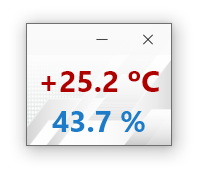
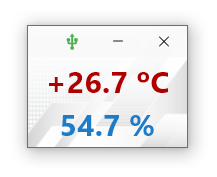
Added extension

diff --git a/lib/widget/content_body.dart b/lib/widget/content_body.dart
@@ -5,6 +5,7 @@ import 'package:flutter_riverpod/flutter_riverpod.dart';
 
 import '../main.dart';
 import '../provider/provider.dart';
+import '../settings/extension.dart';
 import '../settings/my_style.dart' as my_style;
 
 class ContentBody extends ConsumerStatefulWidget {
@@ -15,20 +16,6 @@ class ContentBody extends ConsumerStatefulWidget {
 }
 
 class _ContentBodyState extends ConsumerState<ContentBody> {
-  String getTemperatureSting(double? data) {
-    if (data == null) {
-      return '0';
-    }
-    return (data > 0) ? '+${data.toStringAsFixed(1)} \u00BAC' : '${data.toStringAsFixed(1)} \u00BAC';
-  }
-
-  String getHumiditySting(double? data) {
-    if (data == null) {
-      return '0';
-    }
-    return '${data.toStringAsFixed(1)} %';
-  }
-
   @override
   void initState() {
     Future(() => _hidOpen());
@@ -37,19 +24,19 @@ class _ContentBodyState extends ConsumerState<ContentBody> {
 
   @override
   Widget build(BuildContext context) {
-    final humidity = ref.watch(humidityProvider);
-    final temperature = ref.watch(temperatureProvider);
+    final humidityRaw = ref.watch(humidityRawProvider);
+    final temperatureRaw = ref.watch(temperatureRawProvider);
 
     return Column(
       mainAxisAlignment: MainAxisAlignment.center,
       children: [
         Text(
-          getTemperatureSting(temperature),
+          temperatureRaw.toTemperature(),
           textAlign: TextAlign.center,
           style: my_style.tempStyle,
         ),
         Text(
-          getHumiditySting(humidity),
+          humidityRaw.toHumidity(),
           textAlign: TextAlign.center,
           style: my_style.humStyle,
         ),
@@ -77,27 +64,23 @@ class _ContentBodyState extends ConsumerState<ContentBody> {
   }
 
   void _hidRead() async {
-    Timer.periodic(const Duration(seconds: 1), (timer) async {
+    Timer.periodic(const Duration(milliseconds: 500), (timer) async {
       try {
         final rawData = await hid.read(timeout: 10);
         // Если получили null, значит произошло отключение usb устройства
         if (rawData == null) {
           // Установим rawDataProvider в null для обнуления показаний в окне вывода
-          ref.read(humidityProvider.notifier).state = 0;
-          ref.read(temperatureProvider.notifier).state = 0;
+          ref.read(humidityRawProvider.notifier).state = null;
+          ref.read(temperatureRawProvider.notifier).state = null;
           throw Exception();
         }
         if (rawData.isNotEmpty) {
           // Данные получены, преобразуем и передаём в провайдеры
           int raw = rawData[0] << 16 | rawData[1] << 8 | rawData[2];
-          // Из полученных данных выводим относительную влажность
-          final humidity = raw * 100.00 / 1048576.00;
-          ref.read(humidityProvider.notifier).state = humidity;
+          ref.read(humidityRawProvider.notifier).state = raw;
 
           raw = rawData[3] << 16 | rawData[4] << 8 | rawData[5];
-          // Из полученных данных выводим температуру
-          final temperature = (raw * 200.00 / 1048576.00) - 50.00;
-          ref.read(temperatureProvider.notifier).state = temperature;
+          ref.read(temperatureRawProvider.notifier).state = raw;
         }
         // Получили пустой массив rawData, нет данных
       } catch (e) {

diff --git a/lib/widget/draggeble_app_bar.dart b/lib/widget/draggeble_app_bar.dart
@@ -78,69 +78,6 @@ class DraggebleAppBar extends ConsumerWidget implements PreferredSizeWidget {
     );
   }
 
-  /*@override
-  Widget build(BuildContext context, WidgetRef ref) {
-    bool isHidConnect = ref.watch(connectProvider);
-
-    return Container(
-      decoration: const BoxDecoration(
-        color: Color(0xB2F8F8F8),
-        border: Border(
-          top: BorderSide(
-            color: Color(0xff707070),
-            width: 1,
-          ),
-        ),
-      ),
-      child: Stack(
-        children: [
-          getAppBarTitle(),
-          SizedBox(
-            height: kWindowCaptionHeight,
-            child: DragToResizeArea(
-              enableResizeEdges: const [
-                ResizeEdge.topLeft,
-                ResizeEdge.top,
-                ResizeEdge.topRight,
-              ],
-              child: Row(
-                mainAxisAlignment: MainAxisAlignment.end,
-                children: [
-                  WindowCaptionButton.minimize(
-                    onPressed: () async {
-                      bool isMinimized = await windowManager.isMinimized();
-                      if (isMinimized) {
-                        await windowManager.restore();
-                      } else {
-                        await windowManager.minimize();
-                      }
-                    },
-                  ),
-                  WindowCaptionButton.close(
-                    onPressed: () async {
-                      // Получим и сохраним положение окна на экране монитора
-                      final position = await windowManager.getPosition();
-                      final dx = await ref.read(storageProvider).get<double>(key_store.offsetX);
-                      final dy = await ref.read(storageProvider).get<double>(key_store.offsetY);
-                      // Сохраняем, только если значения изменились
-                      if (dx != position.dx) {
-                        await ref.read(storageProvider).set<double>(key_store.offsetX, position.dx);
-                      }
-                      if (dy != position.dy) {
-                        await ref.read(storageProvider).set<double>(key_store.offsetY, position.dy);
-                      }
-                      await windowManager.close();
-                    },
-                  ),
-                ],
-              ),
-            ),
-          )
-        ],
-      ),
-    );
-  }*/
-
   Widget getAppBarTitle() {
     return DragToMoveArea(
       child: Container(

diff --git a/lib/settings/extension.dart b/lib/settings/extension.dart
@@ -1,0 +1,22 @@
+extension DataConversion on int? {
+  String toTemperature() {
+    if (this == null) {
+      return '?';
+    }
+    // Из полученных данных выводим температуру
+    final temperature = (this! * 200.00 / 1048576.00) - 50.00;
+    if (temperature > 0) {
+      return '+${temperature.toStringAsFixed(1)} \u00BAC';
+    }
+    return '${temperature.toStringAsFixed(1)} \u00BAC';
+  }
+
+  String toHumidity() {
+    if (this == null) {
+      return '?';
+    }
+    // Из полученных данных выводим относительную влажность
+    final humidity = this! * 100.00 / 1048576.00;
+    return '${humidity.toStringAsFixed(1)} %';
+  }
+}

diff --git a/lib/provider/provider.dart b/lib/provider/provider.dart
@@ -9,7 +9,7 @@ final storageProvider = Provider<IDataBase>((ref) => throw UnimplementedError())
 final connectProvider = StateProvider.autoDispose<bool>((ref) => false);
 
 // Провайдер значения влажности
-final humidityProvider = StateProvider.autoDispose<double>((ref) => 0);
+final humidityRawProvider = StateProvider.autoDispose<int?>((ref) => null);
 
 // Провайдер значения температуры
-final temperatureProvider = StateProvider.autoDispose<double>((ref) => 0);
+final temperatureRawProvider = StateProvider.autoDispose<int?>((ref) => null);

diff --git a/lib/main.dart b/lib/main.dart
@@ -32,7 +32,7 @@ void main() async {
   final double? dx = sharedPreferences.getDouble(key_store.offsetX);
   final double? dy = sharedPreferences.getDouble(key_store.offsetY);
 
-  const initialSize = Size(160, 130);
+  const initialSize = Size(175, 130);
   WindowOptions windowOptions = const WindowOptions(
     size: initialSize,
     minimumSize: initialSize,

diff --git a/lib/settings/key_store.dart b/lib/settings/key_store.dart
@@ -1,5 +1,3 @@
-library;
-
 // Ключи константы для локального хранилища
 //
 // Положение окна приложения на экране монитора
